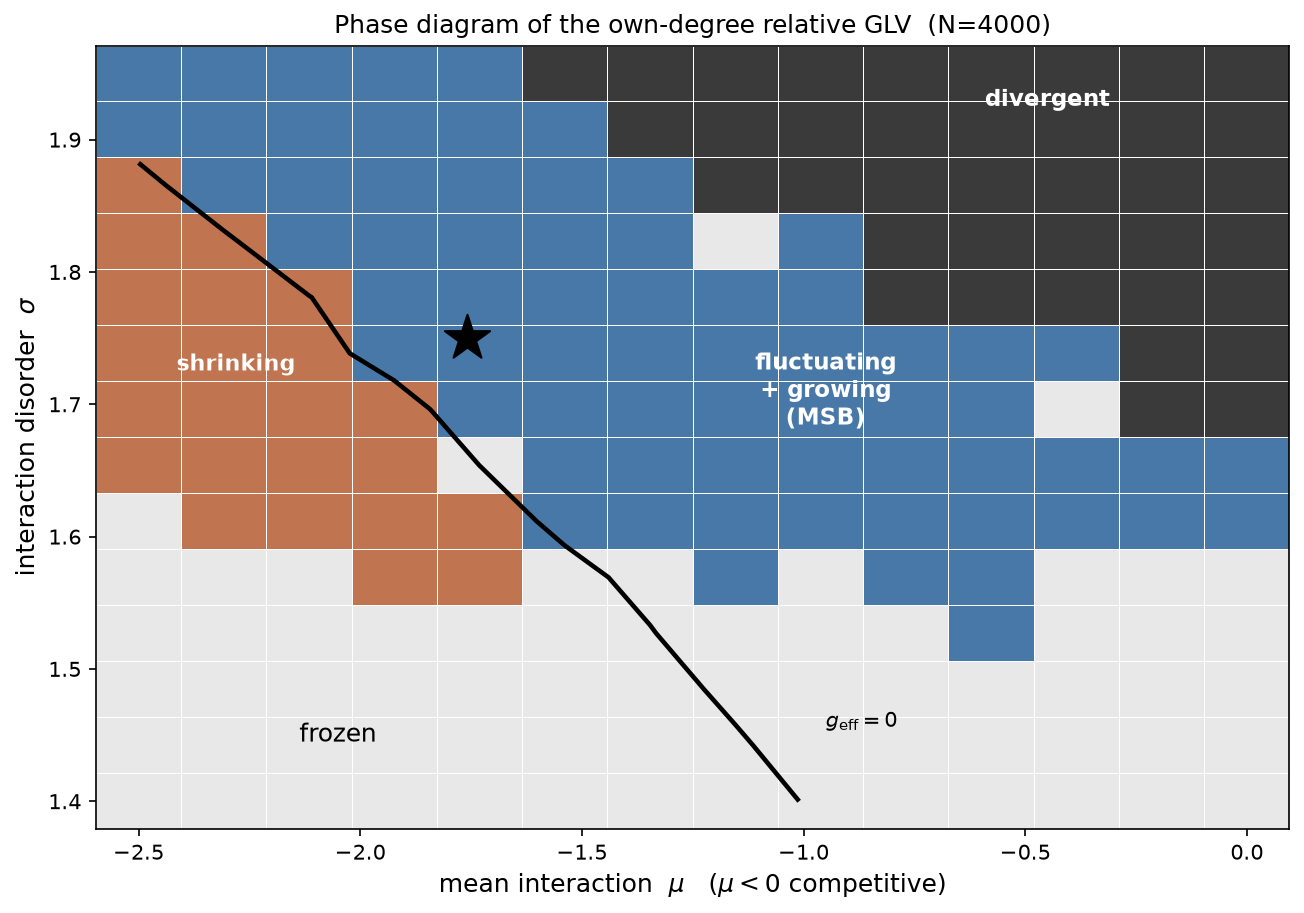
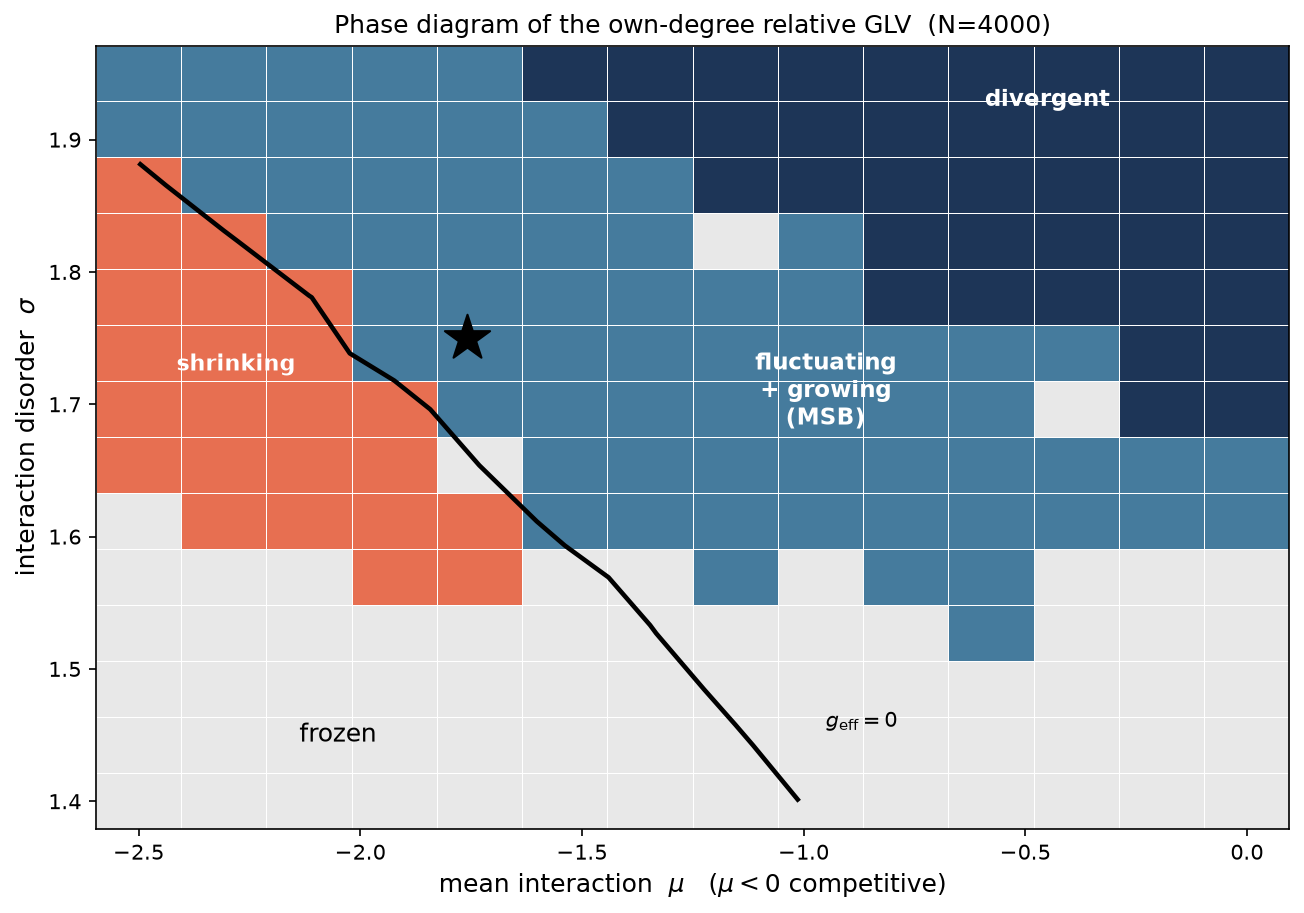
style(phase): palette regime colors + replot

Changed region(s): [[0.3988, 0.0307, 1.0, 0.4907], [0.0613, 0.1533, 0.3988, 0.6747]]

diff --git a/scripts/phase_owndeg_fine.py b/scripts/phase_owndeg_fine.py
@@ -108,7 +108,7 @@ def plot():
 
     # RAW cells -- no despeckle, no interpolation: every square is one measured cell.
     from matplotlib.colors import ListedColormap
-    COLS = ["#e8e8e8", "#4878a8", "#c0744f", "#3a3a3a"]   # frozen, fluctuating, shrinking, divergent
+    COLS = ["#e8e8e8", "#457b9d", "#e76f51", "#1d3557"]   # frozen, fluctuating, shrinking, divergent
     mu_plot = -mus                                        # mu<0 (competitive) convention
     order = np.argsort(mu_plot)                           # ascending: most competitive on the left
     mu_s = mu_plot[order]; code_s = code[:, order]
